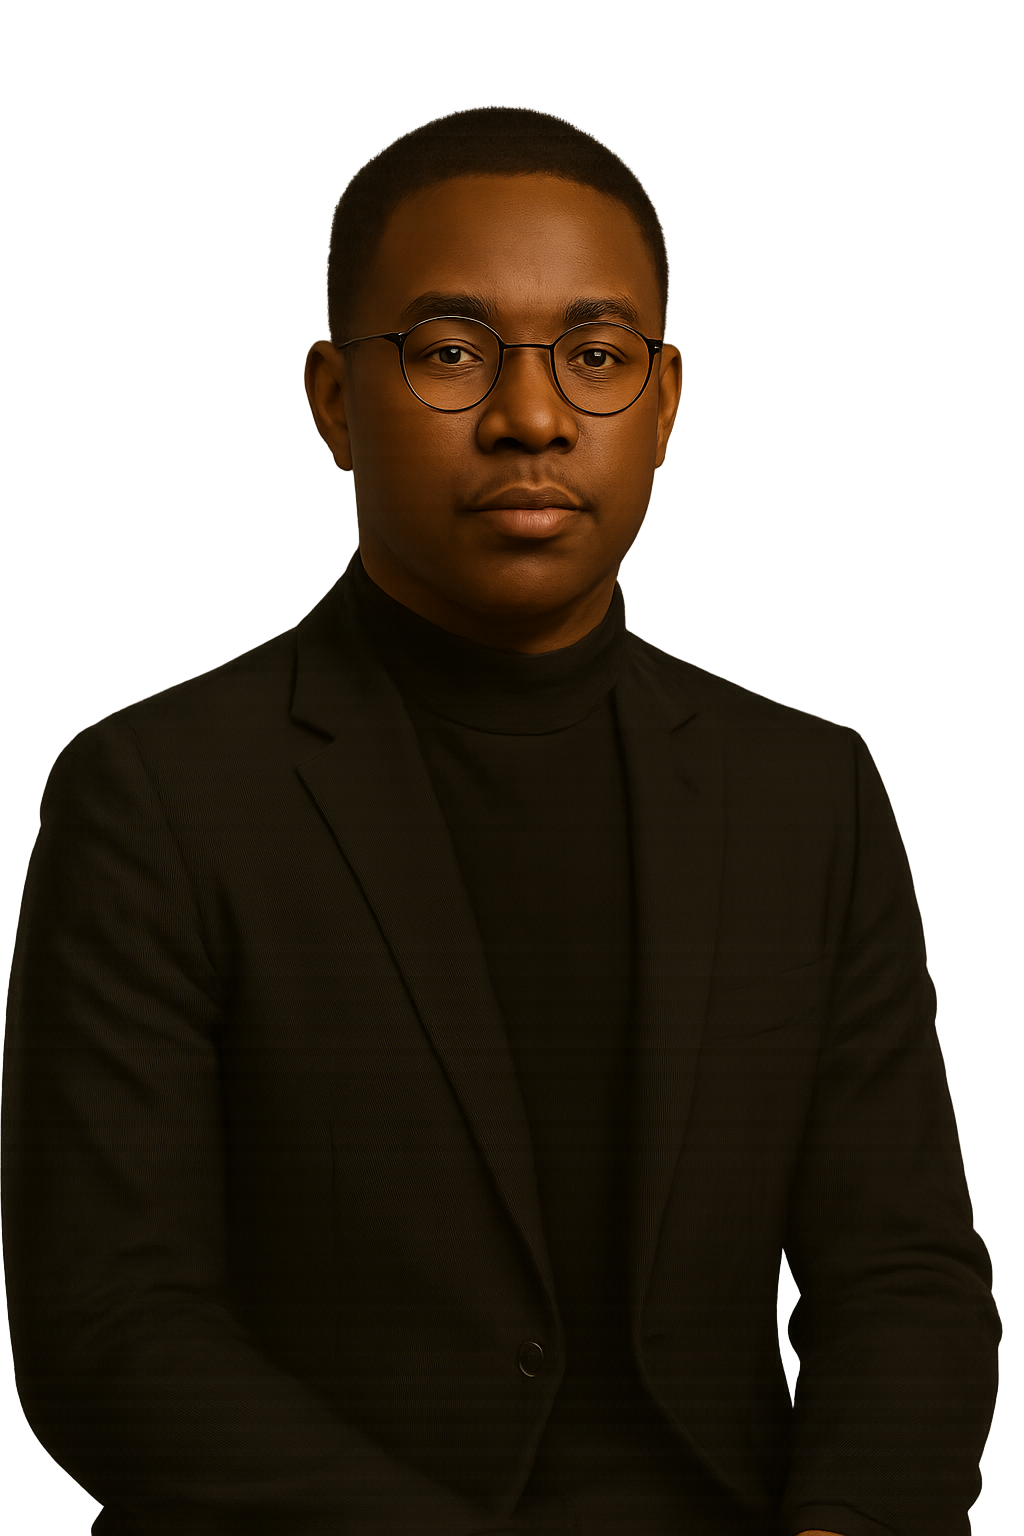
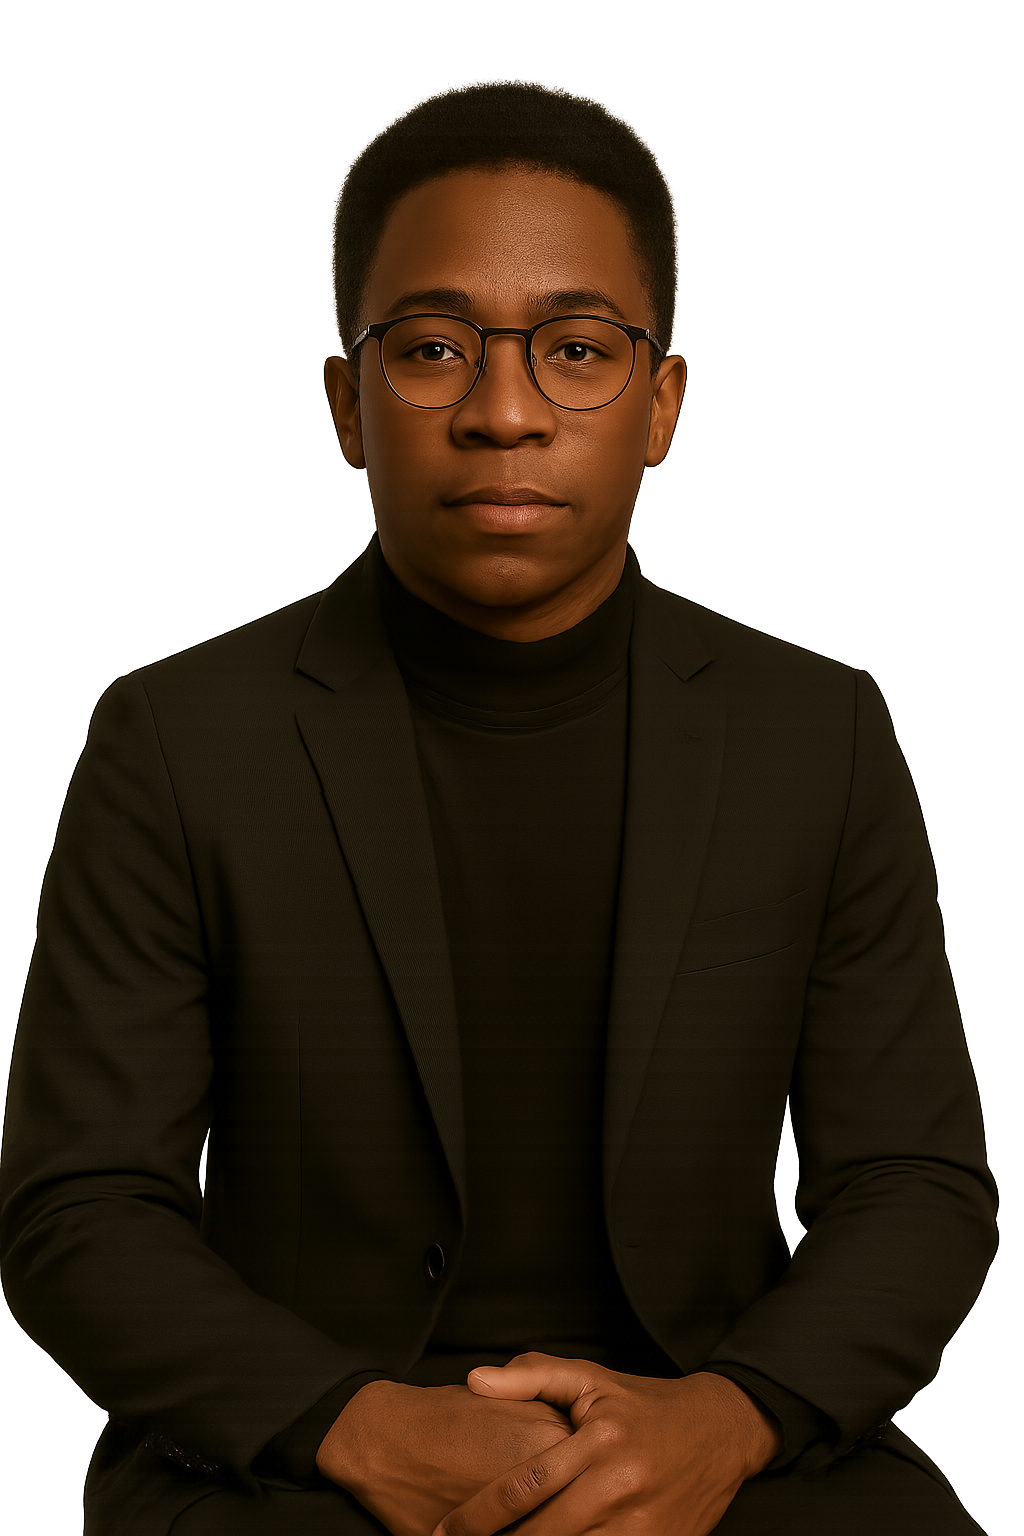
added service and work pages

diff --git a/components/WorkSlider.js b/components/WorkSlider.js
@@ -1,5 +1,22 @@
+// import swiper react components
+import { Swiper, SwiperSlide } from "swiper/react";
+
+// import swiper styles
+import 'swiper/css';
+import 'swiper/css/free-mode';
+import 'swiper/css/pagination';
+
+// import required modules
+import { Pagination } from 'swiper';
+
+// icons
+import { BsArrowRight } from 'react-icons/bs';
+
+// next image
+import Image from 'next/image';
+
 // data
-const workSlides = {
+export const workSlider = {
   slides: [
     {
       images: [
@@ -45,7 +62,86 @@ const workSlides = {
 };
 
 const WorkSlider = () => {
-  return <div>Work Slider</div>;
+  return (
+    <Swiper 
+      spaceBetween={10}
+      pagination={{
+        clickable: true,
+      }}
+      modules={{Pagination}}
+      className='lg:h-full h-[280px] sm:h[480px]'
+    >
+
+      {
+        workSlider.slides.map((slide, index)=> {
+          return (
+            <SwiperSlide key={index}>
+              <div className='grid grid-cols-2 grid-rows-2 gap-4 cursor-pointer'>
+                {slide.images.map((image, index)=> {
+                  return (
+                    
+                    <div className='relative rounded-lg overflow-hidden flex
+                    items-center justify-center group'
+                      key={index}
+                    >
+
+                      <div className='flex items-center justify-center relative
+                      overflow-hidden group'>
+
+                        {/* image */}
+                        <Image src={image.path} width={500} height={300} alt='' />
+
+                        {/* overlay gradient */}
+                        <div className='absolute inset-0 bg-gradient-to-l
+                        from-transparent via-[#e838cc] to-[#4a22bd] opacity-0
+                        group-hover:opacity-80 transition-all duration-700'
+                        >
+                        </div>
+
+                        {/* title */}
+                        <div className='absolute bottom-0 translate-y-full
+                        group-hover:-translate-y-10 group-hover:xl:-translate-y-20
+                        transition-all duration-300'
+                        >
+
+                          <div className='flex items-center gap-x-2 text-[13px]
+                          tracking-[0.2em]'>
+
+                            {/* title part 1 */}
+                            <div className='delay-100'>
+                              LIVE
+                            </div>
+
+                            {/* title part 1 */}
+                            <div className='translate-y-[500%] group-hover:translate-y-0
+                            translate-all duration-300 delay-150'>
+                              PROJECT
+                            </div>
+
+                            {/* icon */}
+                            <div className='text-xl translate-y-[500%]
+                            group-hover:translate-y-0 transition-all duration-300
+                            delay-200'>
+                              <BsArrowRight />
+                            </div>
+
+                          </div>
+
+                        </div>
+
+                      </div>
+                    </div>
+
+                  )
+                })}
+              </div>
+            </SwiperSlide>
+          );
+        })
+      }
+
+    </Swiper>
+  );
 };
 
 export default WorkSlider;

diff --git a/components/ServiceSlider.js b/components/ServiceSlider.js
@@ -1,3 +1,11 @@
+// import swiper react components
+import { Swiper, SwiperSlide } from "swiper/react";
+
+// import swiper styles
+import 'swiper/css';
+import 'swiper/css/free-mode';
+import 'swiper/css/pagination';
+
 // icons
 import {
   RxCrop,
@@ -5,11 +13,15 @@ import {
   RxDesktop,
   RxReader,
   RxRocket,
+  RxArrowTopRight,
 } from "react-icons/rx";
+
+// import required modules
+import { FreeMode, Pagination } from 'swiper';
 
 
 // data
-const serviceData = [
+export const serviceData = [
   {
     icon: <RxCrop />,
     title: 'Branding',
@@ -38,7 +50,67 @@ const serviceData = [
 ];
 
 const ServiceSlider = () => {
-  return <div>Service Slider</div>;
+  return (
+    <Swiper breakpoints={{
+      
+      320: {
+        slidesPerView: 1,
+        spaceBetween: 15
+      },
+
+      640: {
+        slidesPerView: 3,
+        spaceBetween: 15
+      },
+
+    }}
+
+    freeMode={true}
+    pagination={{
+      clickable: true
+    }}
+    modules={{FreeMode, Pagination}}
+    className='h-[240px] sm:h[340px]'
+    
+    >
+
+      {
+        serviceData.map((item, index)=> {
+          return (
+            <SwiperSlide key={index}>
+              <div className='bg-[rgba(65,47,123,0,15)] h-max rounded-lg px=6 py-8 flex
+              sm:flex-col gap-x-6 sm:gap-x-0 group cursor-pointer
+              hover:bg-[rgba(89,65,169,0,15)] transition-all duration-300'>
+
+                {/* icon */}
+                <div className='text-4xl text-accent mb-4'>
+                  {item.icon}
+                </div>
+
+                {/* title & description */}
+                <div className='mb-8'>
+                  <div className='mb-2 text-lg'>
+                    {item.title}
+                  </div>
+                </div>
+                <p className='max-w-[350px] leading-normal'>
+                  {item.description}
+                </p>
+ 
+                {/* arrow */}
+                <div className='text-3xl'>
+                  <RxArrowTopRight className='group-hover:rotate-45
+                  group-hover:text-accent transition-all duration-300' />
+                </div>
+
+              </div>
+            </SwiperSlide>
+          );
+        })
+      }
+
+    </Swiper>
+  );
 };
 
 export default ServiceSlider;

diff --git a/pages/services/index.js b/pages/services/index.js
@@ -1,5 +1,69 @@
+
+// components
+import ServiceSlider from '../../components/ServiceSlider';
+import Bulb from '../../components/Bulb';
+import Circles from '../../components/Circles';
+
+// framer motion
+import { motion } from 'framer-motion';
+import { fadeIn } from '../../variants';
+
 const Services = () => {
-  return <div>Services</div>;
-};
+  return (
+  
+  <div className='h-full bg-primary/30 py-36 flex items-center'>
+
+    <Circles />
+
+    <div className='container mx-auto'>
+
+      <div className='flex flex-col xl:flex-row gap-x-8'>
+
+        {/* text */}
+        <div className='text-center flex xl:w-[30vw] flex-col lg:text-left mb-4 xl:mb-0'>
+          
+          <motion.h2
+            variants={fadeIn('up', 0.2)}
+            initial="hidden"
+            animate="show"
+            exit="hidden"
+            className='h2 xl:mt-8'
+          >
+            My Services <span className='text-accent'>.</span>
+          </motion.h2>
+
+          <motion.p
+            variants={fadeIn('up', 0.4)}
+            initial="hidden"
+            animate="show"
+            exit="hidden"
+            className='mb-4 max-w-[400px] mx-auto lg:mx-0'
+          >
+            Random words for my service to be filled later on by I.
+            The one and only Kevin Chifamba, as stated in this very declaration.
+          </motion.p>
+
+        </div>
+
+        {/* slider */}
+        <motion.div
+          variants={fadeIn('down', 0.6)}
+          initial="hidden"
+          animate="show"
+          exit="hidden"
+          className='w-full xl:max-w-[65%]'
+        >
+          <ServiceSlider />
+        </motion.div>
+
+      </div>
+
+    </div>
+
+    <Bulb />
+
+  </div>
+
+)};
 
 export default Services;

diff --git a/pages/work/index.js b/pages/work/index.js
@@ -1,5 +1,69 @@
+
+// components
+import WorkSlider from '../../components/WorkSlider';
+import Bulb from '../../components/Bulb';
+import Circles from '../../components/Circles';
+
+// framer motion
+import { motion } from 'framer-motion';
+import { fadeIn } from '../../variants';
+
 const Work = () => {
-  return <div>Work</div>;
-};
+  return (
+  
+  <div className='h-full bg-primary/30 py-36 flex items-center'>
+
+    <Circles />
+
+    <div className='container mx-auto'>
+
+      <div className='flex flex-col xl:flex-row gap-x-8'>
+
+        {/* text */}
+        <div className='text-center flex xl:w-[30vw] flex-col lg:text-left mb-4 xl:mb-0'>
+          
+          <motion.h2
+            variants={fadeIn('up', 0.2)}
+            initial="hidden"
+            animate="show"
+            exit="hidden"
+            className='h2 xl:mt-8'
+          >
+            My work <span className='text-accent'>.</span>
+          </motion.h2>
+
+          <motion.p
+            variants={fadeIn('up', 0.4)}
+            initial="hidden"
+            animate="show"
+            exit="hidden"
+            className='mb-4 max-w-[400px] mx-auto lg:mx-0'
+          >
+            Random words for my service to be filled later on by I.
+            The one and only Kevin Chifamba, as stated in this very declaration.
+          </motion.p>
+
+        </div>
+
+        {/* slider */}
+        <motion.div
+          variants={fadeIn('down', 0.6)}
+          initial="hidden"
+          animate="show"
+          exit="hidden"
+          className='w-full xl:max-w-[65%]'
+        >
+          <WorkSlider />
+        </motion.div>
+
+      </div>
+
+    </div>
+
+    <Bulb />
+
+  </div>
+
+)};
 
 export default Work;

diff --git a/components/Bulb.js b/components/Bulb.js
@@ -1,5 +1,19 @@
+// next image
+import Image from "next/image";
+
 const Bulb = () => {
-  return <div>Bulb</div>;
+  return (
+    <div className='absolute -left-36 -bottom-12 rotate-12 mix-blend-color-dodge
+    animate-pulse duration-75 z-10 w-{200px} xl:w-{260px}'>
+      <Image 
+        src={'/bulb.png'}
+        width={260}
+        height={200}
+        className='w-full h-full'
+        alt=''
+      />
+    </div>
+  );
 };
 
 export default Bulb;
